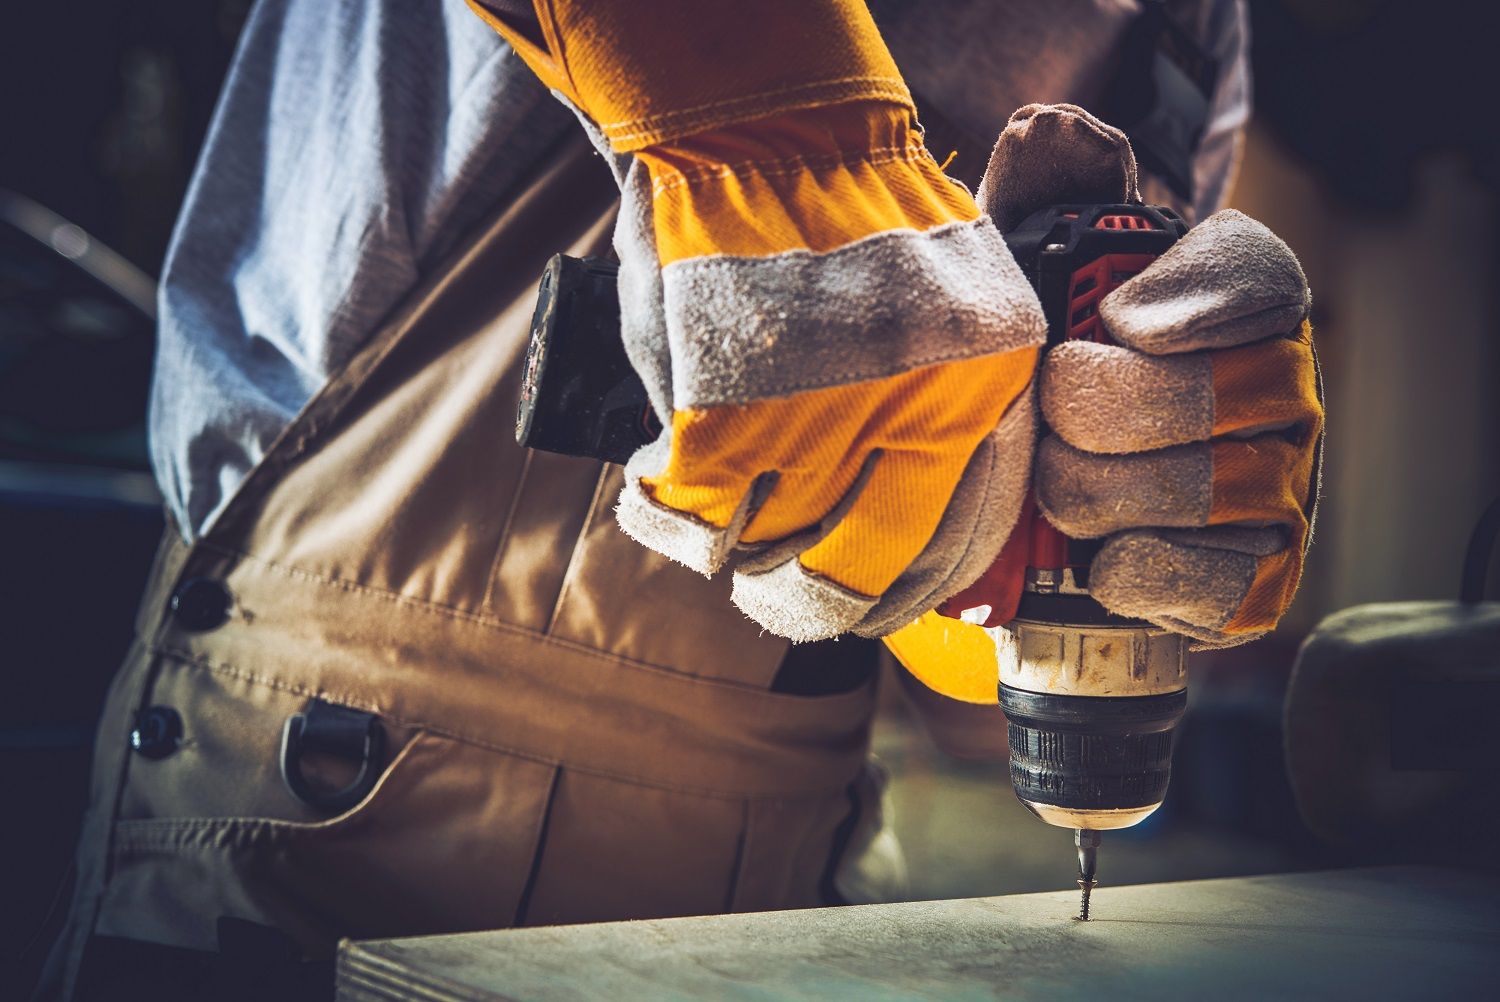
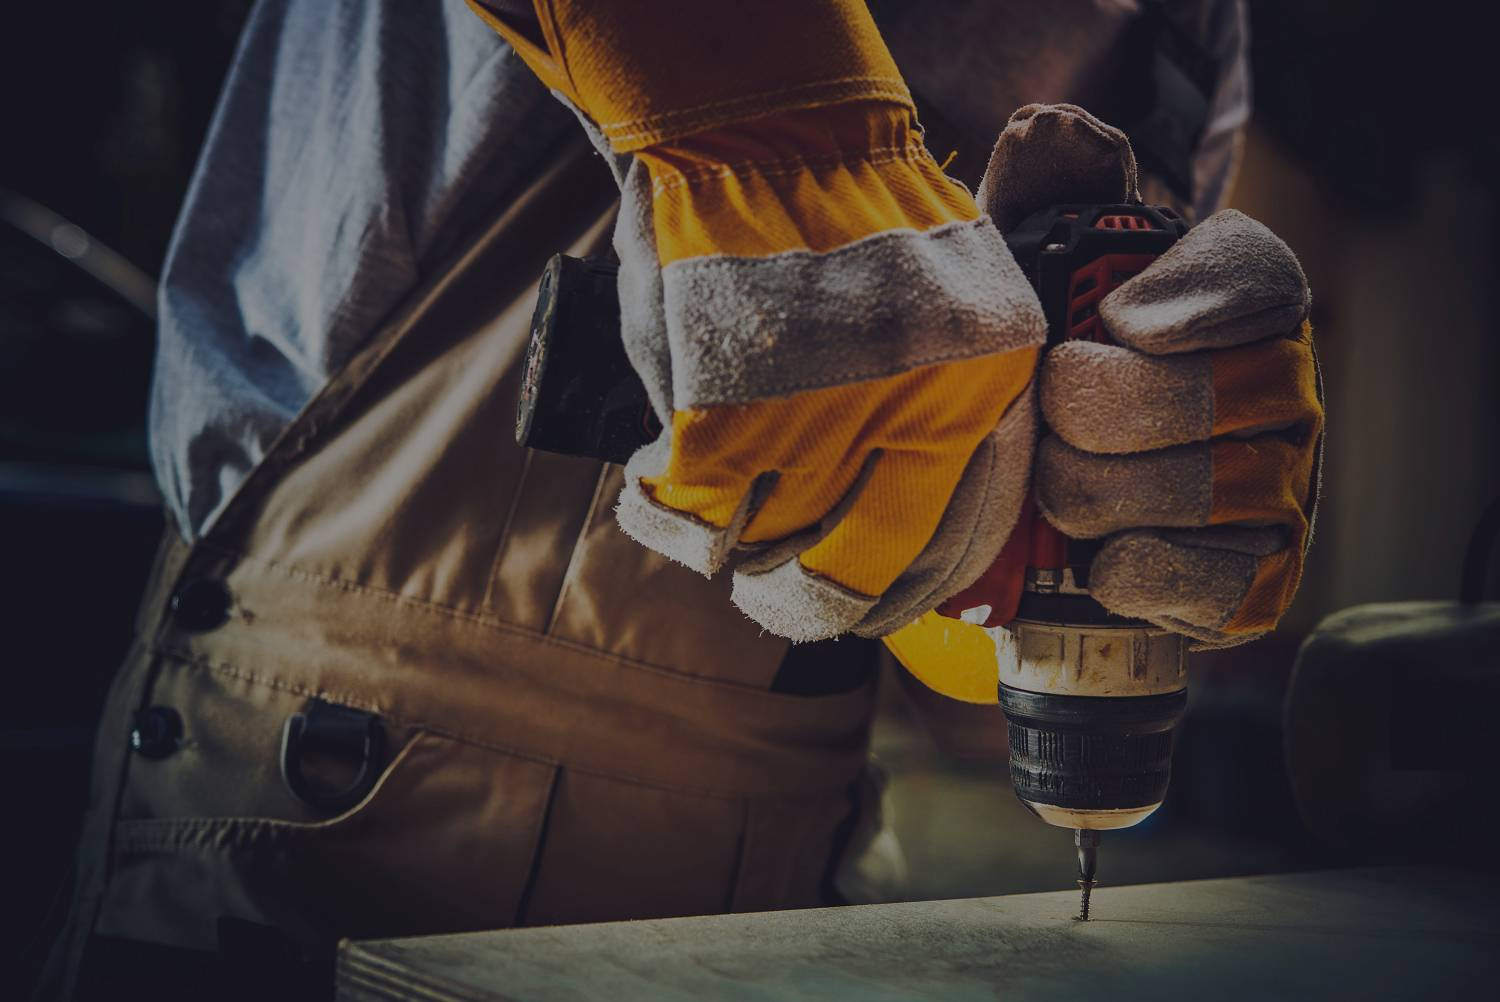
update css

diff --git a/index.html b/index.html
@@ -34,9 +34,11 @@
 			</div>
           <div class="header">
 			  <div class="container">
-                <div class="logo">
+                <div class="logo" >
+					<a href="#">
 					<p class="construction">ConStruction</p>
 					<p>Your company Tagline Here</p>
+					</a>
 				</div>
 				<div class="navigation">
 					<ul>
@@ -65,8 +67,8 @@
 				<p class="bn-second">CONSTRUCTION SERVICES</p>
 				<p class="bn-third">CREATIVE & PROFESSIONAL</p>
 				<p class="bn-four">Nemo enim ipsam voluptatem, quia voluptas sit, aspernatur aut odit aut fugit, sed quia consequuntur magni dolores eos, qui ratione voluptatem sequi nesciunt, neque porro quisquam est, qui dolorem ipsum, quia dolor sit, amet, consectetur, adipisci velit</p>
-				<button class="btn"> <a href="#">KNOW MORE</a></button>
-				<button class="btn"> <a href="#">VIEW PROJECT</a></button>
+				<a href="#"><button class="btn">KNOW MORE</button></a>
+				<a href="#"><button class="btn">VIEW PROJECT</button></a>
 			</div>
 			</div>
 		</div>
@@ -76,7 +78,7 @@
 				<p class="ct-AC1">WELCOME TO OUR COMPANY</p>
 				<p class="ct-AC2">Aliquam lacus purus, actor malesuada</p>
 				<p class="ct-basic ctAC">Nemo enim ipsam voluptatem, quia voluptas sit, aspernatur aut odit aut fugit, sed quia consequuntur magni dolores eos, qui ratione voluptatem sequi nesciunt, neque porro quisquam est, qui dolorem ipsum, quia dolor sit, amet, consectetur, adipisci velit</p>
-				<button class="btn btn-AC"> <a href="#">KNOW MORE</a></button>
+				<a href="#"><button class="btn btn-AC">KNOW MORE</button></a>
 			</div>
 			<div class="About-right">
 				<img src="image/Layer 16.png" alt=""/>
@@ -146,19 +148,19 @@
 					<img src="image/Layer 5.png" alt=""/>
 					<p class="ct-OS">CONSTRUCTION MANAGEMENT</p>
 					<p class="ct-basic">Nemo enim ipsam voluptatem, quia voluptas sit, aspernatur aut odit aut fugit, sed quia consequuntur magni dolores eos, qui ratione voluptatem sequi nesciunt, neque porro quisquam est, qui dolorem ipsum, quia dolor sit, amet, consectetur, adipisci velit</p>
-					<button class="btn btn-AC"> <a href="#">KNOW MORE</a></button>
+					<a href="#"><button class="btn btn-AC">KNOW MORE</button></a>
 				</div>
 				<div class="col-OS">
 					<img src="image/Layer 6.png" alt=""/>
 					<p class="ct-OS">REVONATION</p>
 					<p class="ct-basic">Nemo enim ipsam voluptatem, quia voluptas sit, aspernatur aut odit aut fugit, sed quia consequuntur magni dolores eos, qui ratione voluptatem sequi nesciunt, neque porro quisquam est, qui dolorem ipsum, quia dolor sit, amet, consectetur, adipisci velit</p>
-					<button class="btn btn-AC"> <a href="#">KNOW MORE</a></button>
+					<a href="#"><button class="btn btn-AC">KNOW MORE</button></a>
 				</div>
 				<div class="col-OS">
 					<img src="image/Layer 8.png" alt=""/>
 					<p class="ct-OS">ARCHITECTURE</p>
 					<p class="ct-basic">Nemo enim ipsam voluptatem, quia voluptas sit, aspernatur aut odit aut fugit, sed quia consequuntur magni dolores eos, qui ratione voluptatem sequi nesciunt, neque porro quisquam est, qui dolorem ipsum, quia dolor sit, amet, consectetur, adipisci velit</p>
-					<button class="btn btn-AC"> <a href="#">KNOW MORE</a></button>
+					<a href="#"><button class="btn btn-AC">KNOW MORE</button></a>
 				</div>
 				</div>
 			</div>
@@ -302,11 +304,11 @@
 				</div>
 				<p class="ct-ft2">Nemo enim ipsam voluptatem, quia voluptas sit, aspernatur aut odit aut fugit, sed quia consequuntur magni dolores eos, qui ratione voluptatem sequi nesciunt</p>
 				<ul>
-					<li><img src="image/facebook.png" alt=""/></li>
-					<li><img src="image/twitter.png" alt=""/></li>
-					<li><img src="image/icon4.png" alt=""/></li>
-					<li><img src="image/icon10.png" alt=""/></li>
-					<li><img src="image/icon3.png" alt=""/></li>
+					<a href="#"><li><img  src="image/facebook.png" alt=""/></li></a>
+					<a href="#"><li><img src="image/twitter.png" alt=""/></li></a>
+					<a href="#"><li><img src="image/icon4.png" alt=""/></li></a>
+					<a href="#"><li><img src="image/icon10.png" alt=""/></li></a>
+					<a href="#"><li><img src="image/icon3.png" alt=""/></li></a>
 				</ul>
 				</div>
 					
@@ -314,14 +316,14 @@
 			<div class="items-footer-explor">
 				<p class="ct-ft1">Explor link</p>
 				<ul class="ct-ft2">
-					<li><i class="fas fa-caret-right"></i>Our services</li>
-					<li><i class="fas fa-caret-right"></i>Meet our team</li>
-					<li><i class="fas fa-caret-right"></i>Forum</li>
-					<li><i class="fas fa-caret-right"></i>Help center</li>
-					<li><i class="fas fa-caret-right"></i>Contact Cekas</li>
-					<li><i class="fas fa-caret-right"></i>Privacy Policy</li>
-					<li><i class="fas fa-caret-right"></i>Cekas Term</li>
-					<li><i class="fas fa-caret-right"></i>Site map</li>
+					<li><i class="fas fa-caret-right"></i><a href="#">Our services</a></li>
+					<li><i class="fas fa-caret-right"></i><a href="#">Meet our team</a></li>
+					<li><i class="fas fa-caret-right"></i><a href="#">Forum</a></li>
+					<li><i class="fas fa-caret-right"></i><a href="#">Help center</a></li>
+					<li><i class="fas fa-caret-right"></i><a href="#">Contact Cekas</a></li>
+					<li><i class="fas fa-caret-right"></i><a href="#">Privacy Policy</a></li>
+					<li><i class="fas fa-caret-right"></i><a href="#">Cekas Term</a></li>
+					<li><i class="fas fa-caret-right"></i><a href="#">Site map</a></li>
 				</ul>
 				</div>
 			  <div class="items-footer-latest">

diff --git a/css/style.css b/css/style.css
@@ -114,6 +114,7 @@ header{
 }
 .social-media i:hover{
 	color: #ffffff;
+	cursor: pointer;
 }
 .top-header .social-media {
 	margin-left: 30px;
@@ -131,6 +132,9 @@ header{
 	margin: 20px 0px;
 	display: inline-block;
 	
+}
+.logo > a{
+	text-decoration: none;
 }
 .logo .construction{
 	color:#ffcb0f;
@@ -204,12 +208,16 @@ header{
 	border-radius: 15px;
 	margin: 70px 30px;
 }
-.btn a{
+.btn{
 	color: #ffffff;
 	text-decoration: none;
 }
-.btn a:hover{
-	color: #222222;
+.btn:hover{
+	color: #7DECE5;
+}
+button:hover{
+	cursor: pointer;
+	background:#4F4A4A;
 }
 .About-Company{
 	width: 1400px;
@@ -414,7 +422,9 @@ header{
 .item5{
 	margin-top: 8px;
 }
-
+.grid-item{
+	cursor:pointer;
+}
 .Customer-reviews{
 	width: 1400px;
 	height: 862px;
@@ -568,8 +578,9 @@ footer .container-footer{
 	border-radius: 30px;
 }
 .items-footer-about ul li img{
-	margin-top:10px;
+	margin:11px  auto;
 }
+
 .items-footer-explor{
 	width: 200px;
 }
@@ -634,6 +645,16 @@ footer .container-footer{
 	font-size: 16px;
 	color: #ffffff;
 	line-height: 1.6;
+}
+.ct-ft2 a{
+	color: #ffffff;
+	text-decoration: none;
+}
+.ct-ft2 li:hover >i{
+	color: #ffcb0f;
+}
+.ct-ft2 li:hover >a{
+	color: #ffcb0f;
 }
 .ct-latest-number{
 	font-size: 18px;

diff --git a/JS/myScripts.js b/JS/myScripts.js
@@ -7,7 +7,7 @@ function background_slideshow(){
 	}, 0000);
 	//
 	setTimeout(function(){
-		document.querySelector('.Main-Banner').style.backgroundImage = "url('image/img-banner-1.jpeg')";
+		document.querySelector('.Main-Banner').style.backgroundImage = "url('image/img-banner-1.jpg')";
 	}, 3000);
 	
 	//
